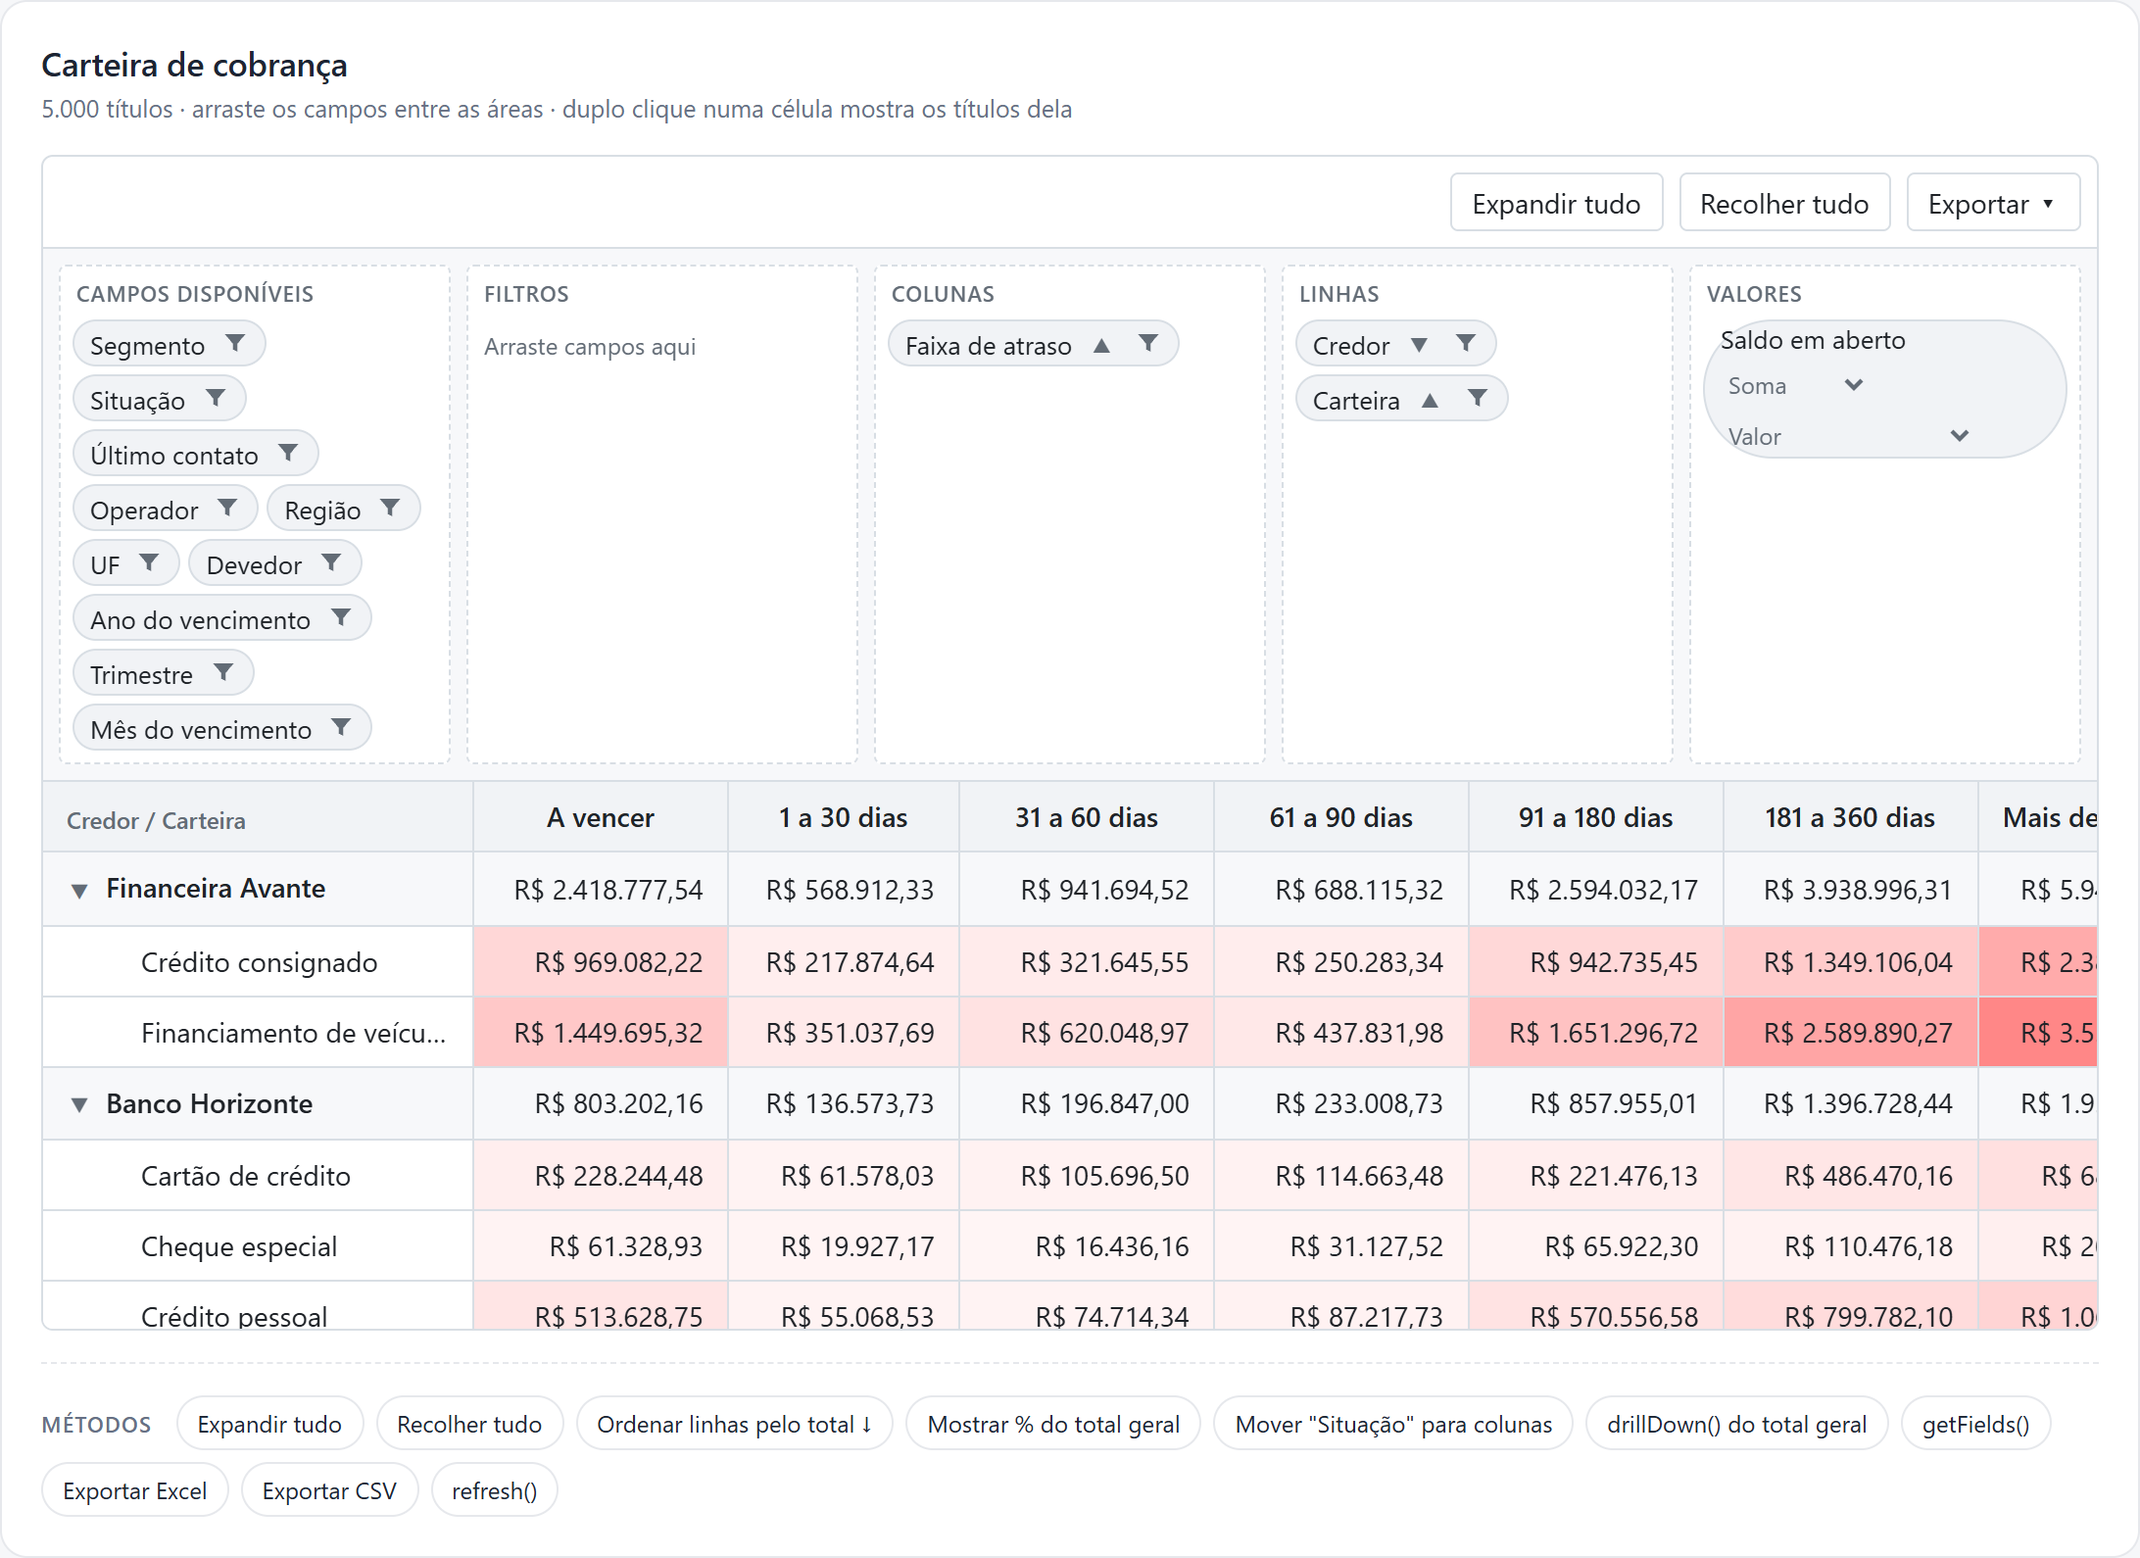
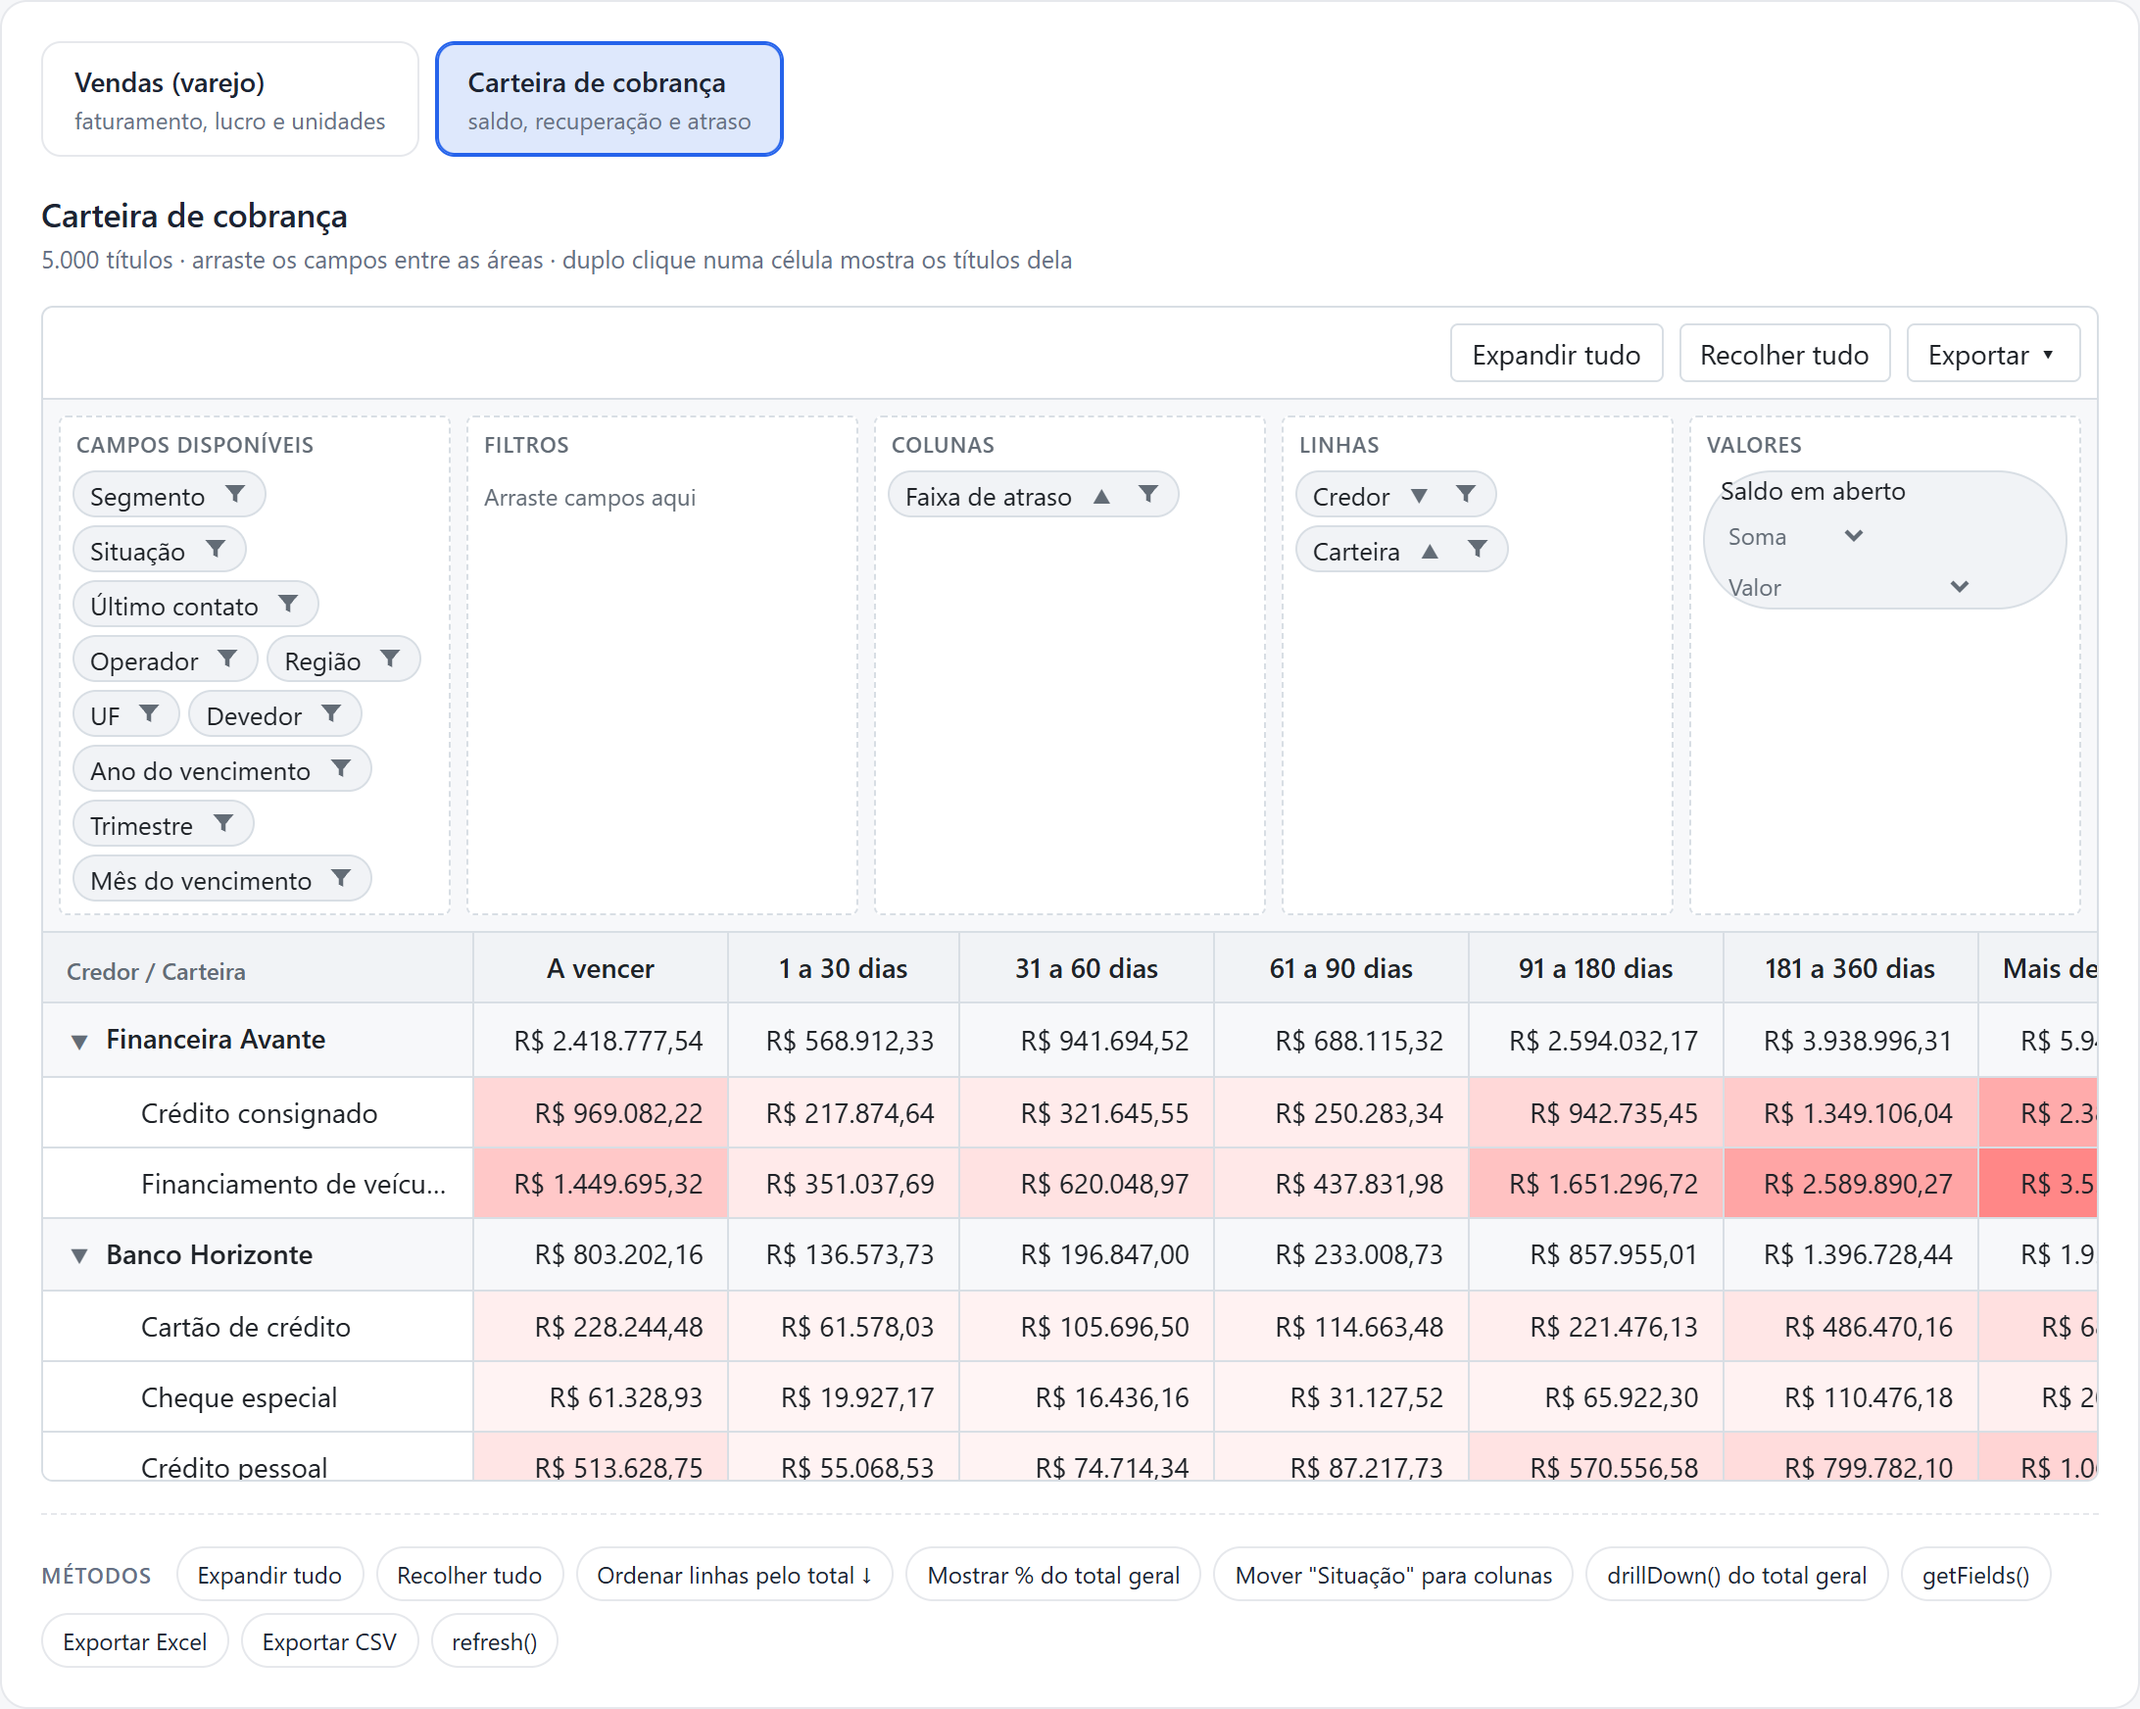
docs: links do exemplo por base (vendas e carteira de cobrança) e prints

diff --git a/README.md b/README.md
@@ -7,7 +7,7 @@ O visual se adapta ao projeto: `configure({ theme: 'bootstrap4' | 'bootstrap5' |
 ## Links
 
 - **Este projeto (código-fonte):** https://github.com/antoniobrunomourateixeira/brunomouradev-ui
-- **Exemplo rodando online:** DataGrid https://antoniobrunomourateixeira.github.io/brunomouradev-ui-demo/#/datagrid · PivotGrid https://antoniobrunomourateixeira.github.io/brunomouradev-ui-demo/#/pivot
+- **Exemplo rodando online:** DataGrid https://antoniobrunomourateixeira.github.io/brunomouradev-ui-demo/#/datagrid · PivotGrid (vendas) https://antoniobrunomourateixeira.github.io/brunomouradev-ui-demo/#/pivot/vendas · PivotGrid (carteira de cobrança) https://antoniobrunomourateixeira.github.io/brunomouradev-ui-demo/#/pivot/cobranca
 - **Código do exemplo** (Angular 20, todas as opções da DataGrid e do PivotGrid, métodos, eventos e o código em Angular, React, Vue e HTML puro): https://github.com/antoniobrunomourateixeira/brunomouradev-ui-demo
 - **npm:** [@brunomouradev/data-grid](https://www.npmjs.com/package/@brunomouradev/data-grid) · [@brunomouradev/pivot-grid](https://www.npmjs.com/package/@brunomouradev/pivot-grid) · [@brunomouradev/tree-list](https://www.npmjs.com/package/@brunomouradev/tree-list)
 

diff --git a/packages/pivot-grid/README.md b/packages/pivot-grid/README.md
@@ -5,7 +5,7 @@
 Tabela dinâmica (pivot) em **Web Component** (`<bm-pivot-grid>`), com hierarquias, subtotais e painel de campos para arrastar. Funciona em Angular (inclusive 11), React, Vue ou HTML puro.
 
 - **Código-fonte:** [github.com/antoniobrunomourateixeira/brunomouradev-ui](https://github.com/antoniobrunomourateixeira/brunomouradev-ui)
-- **Exemplo rodando online:** [https://antoniobrunomourateixeira.github.io/brunomouradev-ui-demo/#/pivot](https://antoniobrunomourateixeira.github.io/brunomouradev-ui-demo/#/pivot)
+- **Exemplo rodando online:** [vendas](https://antoniobrunomourateixeira.github.io/brunomouradev-ui-demo/#/pivot/vendas) · [carteira de cobrança](https://antoniobrunomourateixeira.github.io/brunomouradev-ui-demo/#/pivot/cobranca)
 - **Código do exemplo (Angular 20, todas as opções e o código em Angular, React, Vue e HTML puro):** [github.com/antoniobrunomourateixeira/brunomouradev-ui-demo](https://github.com/antoniobrunomourateixeira/brunomouradev-ui-demo)
 
 ![PivotGrid: protótipo com todas as opções](https://raw.githubusercontent.com/antoniobrunomourateixeira/brunomouradev-ui/main/docs/prints/06-pivot-visao-geral.png)
